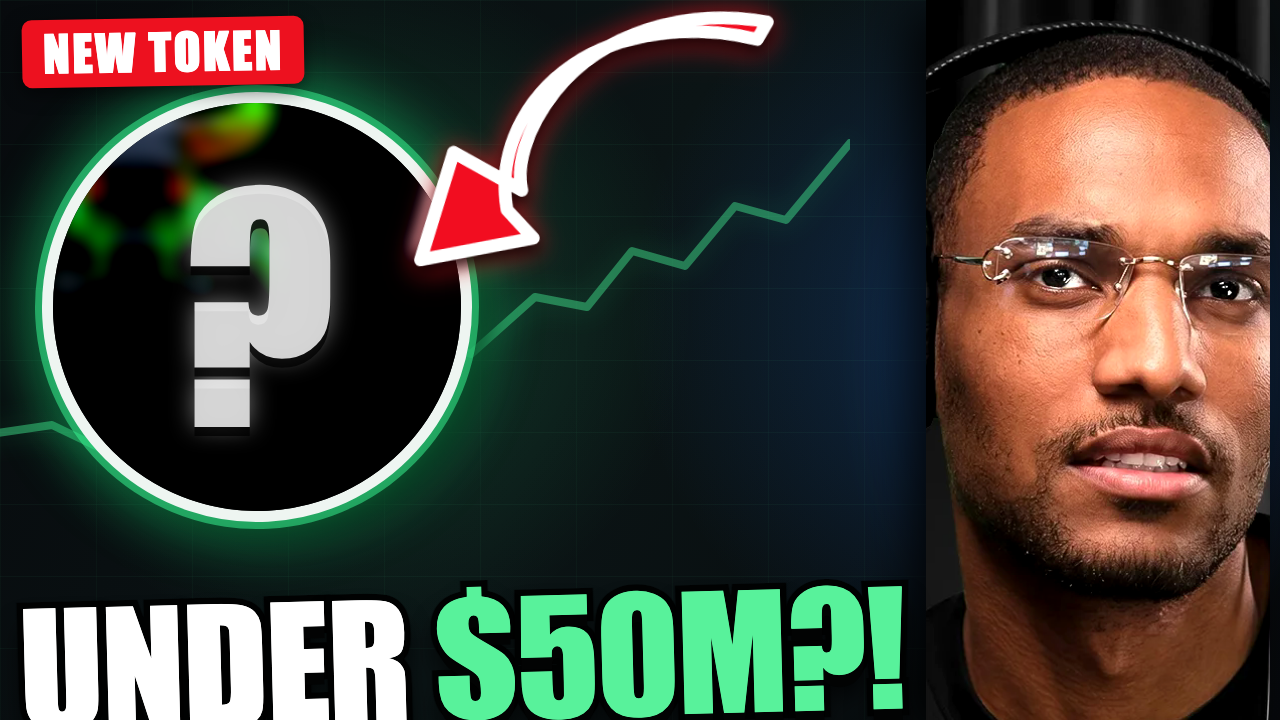
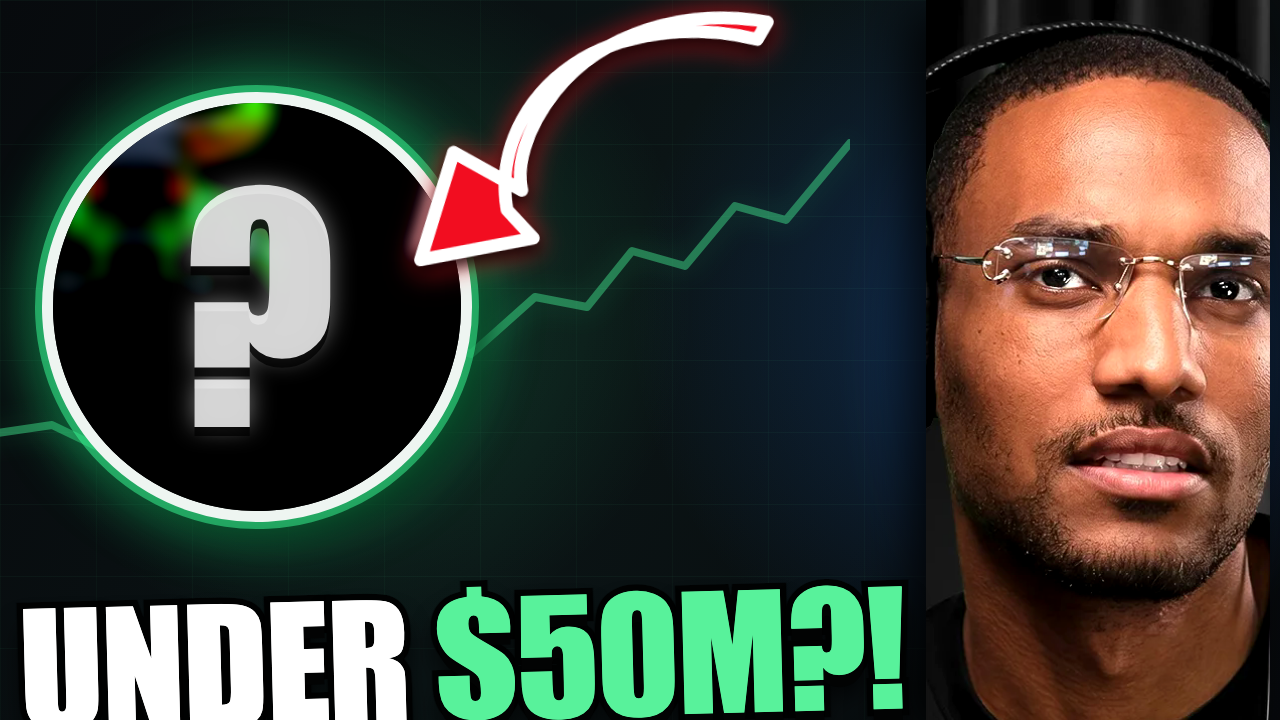
Refine Ansem thumbnail and hosted metadata

Changed region(s): [[0.0, 0.0, 0.25, 0.1528]]

diff --git a/2026-08-12-ansem-next-sub-50m-coin/assets/thumbnail-mock.html b/2026-08-12-ansem-next-sub-50m-coin/assets/thumbnail-mock.html
@@ -93,20 +93,6 @@
       text-shadow: 0 9px 0 rgba(0,0,0,.75), 0 0 25px rgba(255,255,255,.45);
       transform: rotate(3deg);
     }
-    .tag {
-      position: absolute;
-      z-index: 6;
-      left: 22px;
-      top: 18px;
-      padding: 11px 21px 9px;
-      border-radius: 10px;
-      color: #fff;
-      background: #ed111f;
-      box-shadow: 0 6px 18px rgba(0,0,0,.55);
-      font: 50px/.95 Impact, sans-serif;
-      letter-spacing: 2px;
-      transform: rotate(-1deg);
-    }
     .arrow {
       position: absolute;
       z-index: 7;
@@ -146,7 +132,6 @@
     <svg class="arrow" viewBox="0 0 420 280" aria-hidden="true">
       <path d="M393 28 C313 9 225 30 175 87 C141 126 132 162 136 185 L69 143 L30 250 L145 234 L120 204 C113 146 143 92 194 61 C244 31 316 25 382 45 Z" fill="#f20d20" stroke="#fff" stroke-width="13" stroke-linejoin="round"/>
     </svg>
-    <div class="tag">NEW TOKEN</div>
     <img class="face" src="ansem-market-bubble-source.png" alt="Ansem from the official Market Bubble thumbnail">
     <h1 class="headline">UNDER <strong>$50M?!</strong></h1>
   </main>
